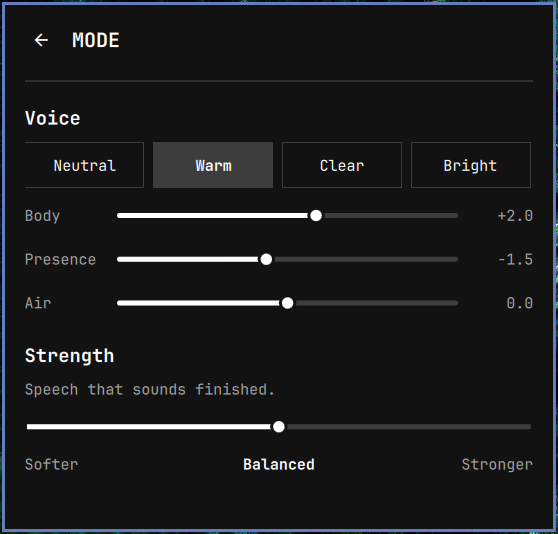
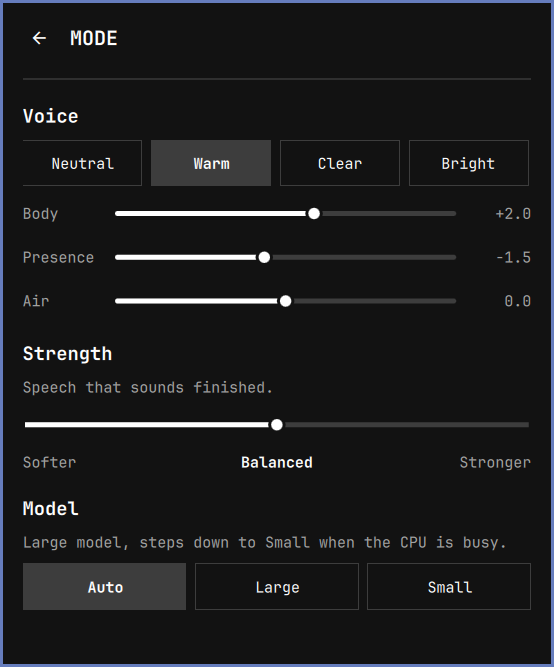
Ship 0.7.0: model picker and rtkit install

diff --git a/README.md b/README.md
@@ -13,12 +13,12 @@
   <a href="LICENSE"><img src="https://img.shields.io/badge/license-MIT-22c55e?style=flat-square" alt="License: MIT"></a>
   <img src="https://img.shields.io/badge/omarchy-4%20Quattro-0ea5e9?style=flat-square" alt="Omarchy 4 Quattro">
   <img src="https://img.shields.io/badge/pipewire-filter--chain-a3e635?style=flat-square" alt="PipeWire filter-chain">
-  <img src="https://img.shields.io/badge/version-0.6.1-111827?style=flat-square" alt="Version 0.6.1">
+  <img src="https://img.shields.io/badge/version-0.7.0-111827?style=flat-square" alt="Version 0.7.0">
 </p>
 
 <p align="center">
   <img src="preview.png" alt="Omavoice DPDFNet panel: Denoise, Natural and Clean, selected mic with live level" width="380">
-  <img src="docs/preview-tune.png" alt="Mode settings: Voice looks, Body / Presence / Air, Strength" width="380">
+  <img src="docs/preview-tune.png" alt="Mode settings: Voice looks, Body / Presence / Air, Strength, Model" width="380">
 </p>
 
 A fork of [Omavoice](https://github.com/gigasolo/omavoice) by GigaSolo for [Omarchy](https://omarchy.org/) 4 (Quattro). It swaps RNNoise and DeepFilterNet for **DPDFNet**, which cleaned speech best in a side-by-side test, and drops the rest: no Meeting preset, no echo cancel, no engine picker.
@@ -39,7 +39,7 @@ Not affiliated with or endorsed by GigaSolo, Ceva, or 37signals.
 
 Natural uses the same Voice look as Denoise, so you tune your voice once.
 
-Right-click the mark to toggle. Open the panel to switch the mode and pick a microphone. The selected mic row shows a live level and a hairline of what Omavoice is sending. Other rows stay quiet so a Bluetooth headset is not grabbed. The settings on MODE set a Voice look (Neutral / Warm / Clear / Bright) with Body / Presence / Air knobs, and the Strength of the denoise. Strength only applies to Denoise; on Clean, Voice is disabled too.
+Right-click the mark to toggle. Open the panel to switch the mode and pick a microphone. The selected mic row shows a live level and a hairline of what Omavoice is sending. Other rows stay quiet so a Bluetooth headset is not grabbed. The settings on MODE set a Voice look (Neutral / Warm / Clear / Bright) with Body / Presence / Air knobs, the Strength of the denoise, and the DPDFNet Model. Strength and Model only apply to Denoise; on Clean, Voice is disabled too.
 
 In the app itself, choose **Omavoice** as the microphone and turn *its* noise cancellation off. Two denoisers stacked sound hollow.
 
@@ -76,16 +76,25 @@ Copy all of them from the same release if you fill the folder by hand. Without D
 
 Softer / Balanced / Stronger cap the suppression at 24 / 48 / 100 dB. DPDFNet adds about 40 ms of latency.
 
-When the CPU cannot keep up, the plugin steps down from the full model to the light one, and only then to unfiltered audio. Without `dpdfnet2_48khz_hr.onnx` it skips the light step, so a slow laptop lets room noise through, sometimes for minutes. The panel asks you to download again if the light model is missing.
+Model picks the DPDFNet network:
 
-On slow machines, also install `rtkit` (`sudo pacman -S rtkit`, then log out and back in). PipeWire and DPDFNet then run with realtime priority, and a busy shell no longer starves the denoiser.
+| Model | What it does |
+| --- | --- |
+| **Auto** (default) | Large model. When the CPU cannot keep up, it steps down to Small, and only then to unfiltered audio. |
+| **Large** | Always the large model. A CPU that cannot keep up drops out instead of letting noise through. |
+| **Small** | Always the small model, about a third of the CPU. A little less clean. Good for old dual-cores. |
+
+Without `dpdfnet2_48khz_hr.onnx`, Auto skips the Small step, so a slow laptop lets room noise through, sometimes for minutes. The panel asks you to download again if the small model is missing.
+
+On slow machines, also install `rtkit`. PipeWire and DPDFNet then run with realtime priority, and a busy shell no longer starves the denoiser. If it is missing, Denoise shows **Install rtkit**: it opens a terminal for your password, and Omavoice restarts with realtime once rtkit is there. Log out and back in once so PipeWire itself runs realtime too.
 
 ## Use
 
 | Action | How |
 | --- | --- |
 | Open or close the panel | Left-click the mark |
-| Tune Denoise | Settings on MODE: Voice look, then Softer / Balanced / Stronger |
+| Tune Denoise | Settings on MODE: Voice look, Softer / Balanced / Stronger, Auto / Large / Small |
+| Realtime audio | **Install rtkit** in the panel, when rtkit is missing |
 | Automatic microphone | AUTOMATIC on the MICROPHONE header |
 | Toggle Omavoice | Right-click, or `o` |
 | Download DPDFNet | The button under **DPDFNet missing**, or `i` |

diff --git a/CHANGELOG.md b/CHANGELOG.md
@@ -8,6 +8,18 @@ and this project uses [Semantic Versioning](https://semver.org/spec/v2.0.0.html)
 
 ## [Unreleased]
 
+## [0.7.0] — 2026-10-10
+
+### Added
+
+- **Model** on the MODE settings: Auto / Large / Small. Auto is the plugin's
+  ladder (large, then small, then passthrough under load). Large and Small pin
+  one model, so an overloaded CPU drops out instead of letting room noise
+  through. Small runs at about a third of the CPU. Switching restarts the host.
+- **Install rtkit** in the panel when rtkit is missing on Denoise. It runs
+  `pacman` in a floating terminal for the password, then restarts Omavoice
+  with realtime priority. `scripts/omavoice-rtkit` does the same.
+
 ## [0.6.1] — 2026-10-10
 
 ### Fixed
